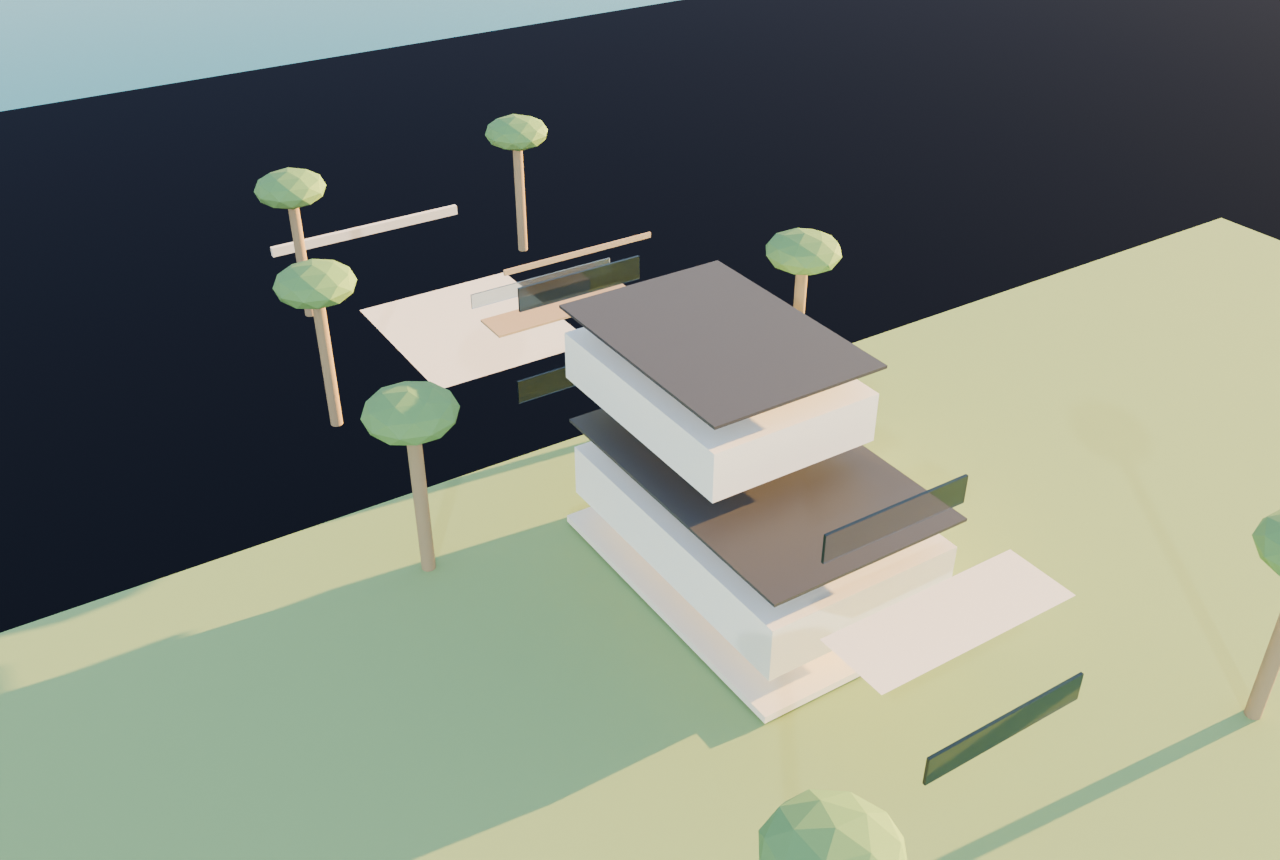
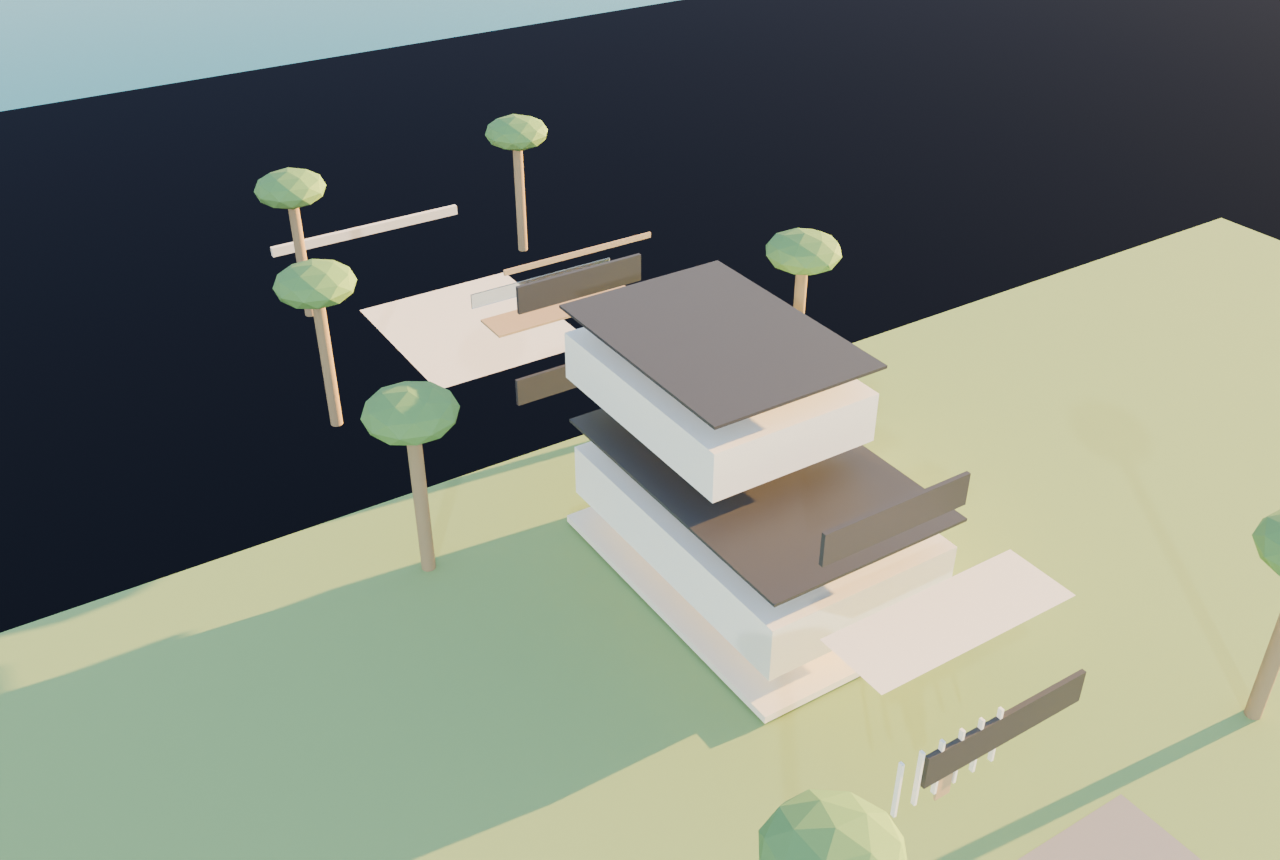
Add schematic design package: floor plans, elevations, articulated 3D
- tools/floor_plans.py -> ground floor, new second floor, elevations
- Articulated Blender model (entry colonnade, window frames, driveway)
- docs/10 schematic design package (concept, program, ~4,050 sf total)
- Second floor: primary suite + west bay terrace, guest, office (~1,200 sf)

https://claude.ai/code/session_016iAakNHpeTq7zdMe5HrUbF

diff --git a/tools/floor_plans.py b/tools/floor_plans.py
@@ -1,0 +1,192 @@
+#!/usr/bin/env python3
+"""
+Schematic floor plans + elevations for 8220 Hawthorne Ave second-floor addition.
+Conceptual / schematic design — NOT construction documents.
+
+Footprint & data from survey + listing:
+  Lot 60'x150' canal/bay-front; existing 1-story ~2,874 sf; Flood AE / BFE 8.0'.
+Outputs PNGs to renders/plans/.
+"""
+import matplotlib
+matplotlib.use("Agg")
+import matplotlib.pyplot as plt
+from matplotlib.patches import Rectangle, Arc, FancyArrow
+import os
+
+OUT = os.path.join(os.path.dirname(__file__), "..", "renders", "plans")
+os.makedirs(OUT, exist_ok=True)
+
+WALL = 2.2          # exterior wall lineweight (pts)
+PART = 1.3          # partition lineweight
+DOOR_C = "#c44"
+WIN_C = "#2a7bb8"
+INK = "#222"
+
+def room(ax, x, y, w, h, name, area=None, fc="#fbfaf6"):
+    ax.add_patch(Rectangle((x, y), w, h, facecolor=fc, edgecolor="none", zorder=0))
+    label = name if area is None else f"{name}\n{area} sf"
+    ax.text(x + w/2, y + h/2, label, ha="center", va="center",
+            fontsize=7.5, color=INK, zorder=5)
+
+def wall(ax, x0, y0, x1, y1, lw=WALL):
+    ax.plot([x0, x1], [y0, y1], color=INK, lw=lw, solid_capstyle="butt", zorder=4)
+
+def door(ax, x, y, w, horiz=True, swing=1):
+    """opening of width w with a swing arc; (x,y)=hinge corner."""
+    if horiz:
+        ax.add_patch(Arc((x, y), 2*w, 2*w, angle=0, theta1=0 if swing>0 else 270,
+                         theta2=90 if swing>0 else 360, color=DOOR_C, lw=0.9, zorder=5))
+        ax.plot([x, x+swing*w], [y, y], color=DOOR_C, lw=0.9, zorder=5)
+    else:
+        ax.add_patch(Arc((x, y), 2*w, 2*w, angle=0, theta1=0, theta2=90,
+                         color=DOOR_C, lw=0.9, zorder=5))
+        ax.plot([x, x], [y, y+w], color=DOOR_C, lw=0.9, zorder=5)
+
+def window(ax, x0, y0, x1, y1):
+    ax.plot([x0, x1], [y0, y1], color=WIN_C, lw=3.2, solid_capstyle="butt", zorder=6)
+
+def north(ax, x, y):
+    ax.add_patch(FancyArrow(x, y, 0, 6, width=0.4, head_width=2, head_length=2.2,
+                            color=INK, zorder=8))
+    ax.text(x, y+9, "N", ha="center", fontsize=9, fontweight="bold")
+
+def scalebar(ax, x, y, ft=10):
+    ax.plot([x, x+ft], [y, y], color=INK, lw=2)
+    for t in (0, ft):
+        ax.plot([x+t, x+t], [y-0.6, y+0.6], color=INK, lw=2)
+    ax.text(x+ft/2, y-2.4, f"{ft} ft", ha="center", fontsize=7)
+
+def titleblock(ax, title, sub):
+    ax.text(2, -8, title, fontsize=12, fontweight="bold")
+    ax.text(2, -11.5, sub, fontsize=8, color="#555")
+    ax.text(2, -14.5, "8220 Hawthorne Ave, Miami Beach FL 33141  ·  SCHEMATIC DESIGN  ·  "
+            "NOT FOR CONSTRUCTION  ·  dimensions approximate", fontsize=7, color="#888")
+
+def frame(title, sub, xlim, ylim):
+    fig, ax = plt.subplots(figsize=(9.5, 12), dpi=140)
+    ax.set_aspect("equal"); ax.axis("off")
+    ax.set_xlim(*xlim); ax.set_ylim(*ylim)
+    titleblock(ax, title, sub)
+    return fig, ax
+
+# ===================== GROUND FLOOR (existing, reconfigured) =====================
+# Footprint 44 (x) x 64 (y). Front y=0 (Hawthorne), bay y=64.
+W, D = 44, 64
+fig, ax = frame("GROUND FLOOR PLAN", "Existing ~2,874 sf · 3 bed + den / 3 bath · new stair to 2nd floor",
+                (-6, 52), (-16, 80))
+# slab outline
+ax.add_patch(Rectangle((0, 0), W, D, facecolor="#f4f2ec", edgecolor="none"))
+# rooms (front -> bay)
+room(ax, 0, 0, 16, 18, "BEDROOM 2", 215)
+room(ax, 28, 0, 16, 18, "BEDROOM 3", 215)
+room(ax, 16, 0, 12, 12, "ENTRY\nFOYER", 110, fc="#eef2f6")
+room(ax, 16, 12, 12, 14, "STAIR\nUP", 70, fc="#f0ead8")
+room(ax, 0, 18, 14, 14, "DEN /\nOFFICE", 175)
+room(ax, 30, 18, 14, 18, "KITCHEN", 235)
+room(ax, 14, 26, 16, 10, "HALL / DINING", 150, fc="#fbfaf6")
+room(ax, 0, 32, 14, 12, "BATH /\nLAUNDRY", 150, fc="#eef2f6")
+room(ax, 4, 36, 36, 28, "GREAT ROOM\n(LIVING / DINING)\n— opens to pool & bay —", 900, fc="#fbfaf6")
+# exterior walls
+for (x0,y0,x1,y1) in [(0,0,W,0),(W,0,W,D),(W,D,0,D),(0,D,0,0)]:
+    wall(ax, x0,y0,x1,y1)
+# a few partitions
+wall(ax,16,0,16,18,PART); wall(ax,28,0,28,18,PART); wall(ax,16,12,28,12,PART)
+wall(ax,0,18,W,18,PART); wall(ax,30,18,30,36,PART); wall(ax,14,18,14,44,PART)
+wall(ax,0,32,14,32,PART); wall(ax,4,36,W,36,PART)
+# doors
+door(ax,22,0,3,horiz=True,swing=1)          # front entry
+door(ax,16,28,3,horiz=False)                # to great room
+door(ax,18,12,3,horiz=True)
+# windows (exterior glazing) — lots toward bay
+window(ax,6,64,38,64)                        # rear wall to bay/pool (big glass)
+window(ax,2,0,12,0); window(ax,32,0,42,0)    # front bedrooms
+window(ax,0,40,0,60); window(ax,W,40,W,60)   # side great-room glazing
+# pool reference (dashed, beyond rear)
+ax.add_patch(Rectangle((10,70),24,6, fill=False, ls="--", ec="#2a7bb8"))
+ax.text(22,73,"POOL / DECK / BAY  ▶", ha="center", fontsize=7, color="#2a7bb8")
+north(ax, 48, 60); scalebar(ax, 0, -4)
+ax.text(W/2,-1.5,"HAWTHORNE AVE  ·  circular driveway / 2 cars", ha="center", fontsize=7, color="#666")
+fig.savefig(os.path.join(OUT,"ground_floor.png"), bbox_inches="tight", facecolor="white")
+plt.close(fig)
+
+# ===================== SECOND FLOOR (NEW) =====================
+# Stepped back from street: footprint x 6..40 (34), y 18..64 (46) ≈ 1,200 sf
+fig, ax = frame("SECOND FLOOR PLAN (NEW)", "New ~1,200 sf · primary suite + guest + office · west bay terrace",
+                (-6, 52), (-16, 84))
+ax.add_patch(Rectangle((6,18), 34, 46, facecolor="#f4f2ec", edgecolor="none"))
+# front rooftop terrace over the stepped-back portion (open below = setback)
+ax.add_patch(Rectangle((0,0), W, 18, facecolor="#eaf0f4", edgecolor="none"))
+ax.text(W/2,9,"ROOFTOP TERRACE\n(over stepped-back area)", ha="center", va="center",
+        fontsize=7, color="#3a6b8a")
+# rooms
+room(ax, 6, 18, 14, 16, "BEDROOM 4 /\nGUEST", 220)
+room(ax, 24, 18, 16, 16, "OFFICE /\nLOFT", 250, fc="#eef2f6")
+room(ax, 18, 34, 10, 8, "STAIR /\nLANDING", 70, fc="#f0ead8")
+room(ax, 6, 42, 22, 22, "PRIMARY\nBEDROOM", 480, fc="#fbfaf6")
+room(ax, 28, 42, 12, 12, "PRIMARY\nBATH", 140, fc="#eef2f6")
+room(ax, 28, 54, 12, 10, "W.I.\nCLOSET", 110, fc="#f3f3ee")
+# exterior walls (the 2nd-floor box)
+for (x0,y0,x1,y1) in [(6,18,40,18),(40,18,40,64),(40,64,6,64),(6,64,6,18)]:
+    wall(ax, x0,y0,x1,y1)
+wall(ax,6,34,40,34,PART); wall(ax,20,18,20,34,PART); wall(ax,28,42,28,64,PART)
+wall(ax,6,42,28,42,PART); wall(ax,28,54,40,54,PART)
+door(ax,16,42,3,horiz=True)
+# big west-facing glass to terrace
+window(ax,8,64,38,64)
+window(ax,6,46,6,60); window(ax,40,46,40,60)
+# bay terrace (cantilever toward water)
+ax.add_patch(Rectangle((6,64),34,9, facecolor="#e8d8bf", edgecolor="#9c7d4f"))
+ax.text(23,68.5,"WEST BAY TERRACE  ·  glass rail  ·  ◀ sunset views", ha="center",
+        fontsize=7, color="#7a5a2a")
+north(ax, 48, 60); scalebar(ax, 0, -4)
+fig.savefig(os.path.join(OUT,"second_floor.png"), bbox_inches="tight", facecolor="white")
+plt.close(fig)
+
+# ===================== ELEVATIONS =====================
+fig, ax = plt.subplots(figsize=(12, 9), dpi=140)
+ax.set_aspect("equal"); ax.axis("off")
+ax.set_xlim(-6, 120); ax.set_ylim(-10, 46)
+
+def elevation(ox, title, bay=False):
+    g = 0; pl = 2; s1 = pl+11; rf1 = s1+0.8; s2 = rf1+10; rf2 = s2+0.8
+    # grade
+    ax.plot([ox-2, ox+46], [g, g], color="#5a4", lw=2)
+    # BFE dashed
+    ax.plot([ox-2, ox+46], [pl, pl], color="#b00", lw=0.8, ls="--")
+    ax.text(ox+46.5, pl, "BFE 8.0'", fontsize=6, color="#b00", va="center")
+    # first story (full width 44)
+    ax.add_patch(Rectangle((ox,pl),44,s1-pl, facecolor="#f3f1ea", ec=INK, lw=1.2))
+    ax.add_patch(Rectangle((ox-0.7,s1),45.4,rf1-s1, facecolor="#222", ec="none"))  # fascia
+    # second story stepped back (x +6..40 width 34) sitting on roof
+    ax.add_patch(Rectangle((ox+6,rf1),34,s2-rf1, facecolor="#f5f3ec", ec=INK, lw=1.2))
+    ax.add_patch(Rectangle((ox+5.3,s2),35.4,rf2-s2, facecolor="#222", ec="none"))
+    # windows
+    if bay:
+        # big glass both floors + terrace rail
+        ax.add_patch(Rectangle((ox+3,pl+2),38,7, facecolor="#bcd3e6", ec="#2a6", lw=0.5))
+        ax.add_patch(Rectangle((ox+9,rf1+2),28,6.5, facecolor="#bcd3e6", ec="#2a6", lw=0.5))
+        ax.add_patch(Rectangle((ox+6,rf1),34,0.5, facecolor="#c8a978"))  # terrace edge
+        ax.plot([ox+6,ox+40],[rf1+3.4,rf1+3.4], color="#9fc3dd", lw=1.2)  # glass rail top
+        for gx in range(0,35,4):
+            ax.plot([ox+6+gx,ox+6+gx],[rf1,rf1+3.4], color="#9fc3dd", lw=0.4)
+    else:
+        for wx in (4,16,30):
+            ax.add_patch(Rectangle((ox+wx,pl+3),8,5.5, facecolor="#cfe0ee", ec="#357", lw=0.5))
+        # entry column screen
+        for cx in range(18,29,2):
+            ax.plot([ox+cx,ox+cx],[pl,s1], color="#888", lw=1.4)
+        for wx in (9,25):
+            ax.add_patch(Rectangle((ox+wx,rf1+2.5),9,5, facecolor="#cfe0ee", ec="#357", lw=0.5))
+    # height dim
+    ax.annotate("", (ox+47,g),(ox+47,rf2), arrowprops=dict(arrowstyle="<->",color="#777",lw=0.8))
+    ax.text(ox+48,rf2/2, f"~{rf2:.0f}' to top", fontsize=6, color="#777", rotation=90, va="center")
+    ax.text(ox+22,-4, title, ha="center", fontsize=10, fontweight="bold")
+
+elevation(0, "FRONT ELEVATION (Hawthorne Ave)")
+elevation(66, "REAR ELEVATION (Bay / West)", bay=True)
+ax.text(60, 44, "8220 Hawthorne Ave — SCHEMATIC ELEVATIONS — second floor on existing flat roof (stepped back) — NOT FOR CONSTRUCTION",
+        ha="center", fontsize=8, color="#555")
+fig.savefig(os.path.join(OUT,"elevations.png"), bbox_inches="tight", facecolor="white")
+plt.close(fig)
+
+print("wrote ground_floor.png, second_floor.png, elevations.png ->", OUT)

diff --git a/tools/blender_second_floor.py b/tools/blender_second_floor.py
@@ -86,11 +86,18 @@ box(HX0, HX1, HY0, HY1, PLINTH, PLINTH+S1H, STUCCO, "story1")
 box(HX0-0.6, HX1+0.6, HY0-0.6, HY1+0.6, PLINTH+S1H, PLINTH+S1H+ROOF, TRIM, "fascia1")
 ROOF_Z = PLINTH + S1H + ROOF      # top of existing flat roof — 2nd floor sits here
 
-# window bands (front + bay) on first story
+# window bands (front + bay) on first story, with dark recessed frames
 def windows(x0, x1, y, z0, z1, depth=0.3):
+    box(x0-0.3, x1+0.3, y-depth-0.15, y+depth+0.15, z0-0.4, z1+0.4, TRIM, "winframe")
     box(x0, x1, y-depth, y+depth, z0, z1, GLASS, "win")
 windows(HX0+4, HX1-4, HY0, PLINTH+3.0, PLINTH+8.5)          # front glazing
 windows(HX0+4, HX1-4, HY1, PLINTH+3.0, PLINTH+8.5)          # bay glazing
+
+# front driveway pavers + entry colonnade (matches the photo's column screen)
+plane(13, 47, 0, 19, 0.03, ROADM, "driveway")
+for cx in range(19, 30, 2):
+    box(cx-0.25, cx+0.25, HY0-0.4, HY0+0.4, PLINTH, PLINTH+S1H, STUCCO, "col")
+box(22.5, 25.5, HY0-0.2, HY0+0.2, PLINTH, PLINTH+7, WOOD, "frontdoor")
 
 # ---------------- proposed SECOND FLOOR on the flat roof ----------------
 box(S2X0, S2X1, S2Y0, S2Y1, ROOF_Z, ROOF_Z+S2H, STUCCO, "story2")

diff --git a/docs/10-schematic-design.md b/docs/10-schematic-design.md
@@ -1,0 +1,59 @@
+# 10 — Schematic Design Package (the real project)
+
+A coherent **schematic design** for the second-floor addition, built from the
+boundary survey + listing photos. This is the actual project concept — floor
+plans, elevations and a 3D model — at the level you hand to an architect to
+develop and stamp.
+
+> ⚠ **Schematic / conceptual. NOT construction documents and NOT a permit set.**
+> Dimensions are approximate. The signed-and-sealed drawings and HVHZ structural
+> design must come from a Florida-licensed architect + engineer
+> ([docs/04](04-architect-shortlist.md)).
+
+## Design concept
+
+- **Build the new floor on the existing flat roof** (the photos confirm a flat/
+  low-slope roof — the cheapest, cleanest way to go up), **stepped back ~8–10 ft
+  from the street** so the low horizontal front facade is preserved.
+- **Orient the second floor to the water:** the primary suite opens west to a
+  **cantilevered bay terrace** with a glass rail — capturing the open-bay sunset
+  views that are wasted at ground level today.
+- Keep the existing **white-stucco tropical-modern** language: black-framed impact
+  glass, thin flat-roof fascia, the entry column screen, wood accents.
+- Ground floor is **reconfigured, not expanded** — the new stair is carved out of
+  the central core; the great room keeps opening to the pool/bay.
+
+## Program & areas (approximate)
+
+| Level | Spaces | Area |
+|-------|--------|------|
+| Ground (existing) | 2 bedrooms, den/office, kitchen, great room, baths, new stair | ~2,874 sf |
+| **Second (new)** | Primary suite (bed + bath + WIC) **+ west bay terrace**, guest bedroom, office/loft, stair | **~1,200 sf** |
+| **Total** | | **~4,050 sf** |
+
+(Second-floor footprint ~34′ × 46′, set back from the street; rooftop terrace over
+the stepped-back portion.)
+
+## Drawings — `renders/plans/`
+
+| File | Sheet |
+|------|-------|
+| `ground_floor.png` | Ground floor plan (reconfigured, new stair) |
+| `second_floor.png` | New second floor plan (primary suite + bay terrace) |
+| `elevations.png` | Front (Hawthorne) + rear (bay/west) elevations, BFE 8.0′ noted |
+
+## 3D model — `renders/blender/`
+
+Articulated massing model (white stucco, glass, entry colonnade, bay terrace,
+pool, palms) rendered with physical sky/sun:
+- `01_bay_hero.png` — from the water, golden hour (the view-driven concept)
+- `02_street.png` — from Hawthorne Ave
+- `03_aerial.png` — aerial overview
+
+Regenerate: `python3 tools/floor_plans.py` and `python3 tools/blender_second_floor.py`.
+
+## Next step
+Hand this package + the survey + the listing photos to the 3 architects
+([docs/04](04-architect-shortlist.md)) as the brief. For a **photoreal** version
+of the front, run your photo through the AI tools in
+[docs/08](08-photoreal-render-howto.md) / [docs/09](09-open-source-repos.md).

diff --git a/renders/README.md b/renders/README.md
@@ -10,7 +10,15 @@ from the **boundary survey** (Lot 60′×150′, canal-front, Flood AE / BFE 8.0
 > in [../docs/05](../docs/05-ai-3d-rendering-guide.md). For stamped drawings, you
 > need a licensed architect/engineer ([../docs/04](../docs/04-architect-shortlist.md)).
 
-## Files
+## Subfolders
+
+- **`plans/`** — schematic **floor plans** (ground + new second) and **elevations**
+  (front + bay). Generate with `python3 tools/floor_plans.py`. See
+  [../docs/10](../docs/10-schematic-design.md).
+- **`blender/`** — articulated **3D model** renders (Blender/Cycles): bay hero,
+  street, aerial. Generate with `python3 tools/blender_second_floor.py`.
+
+## Files (early massing study)
 
 | File | What it is |
 |------|-----------|
